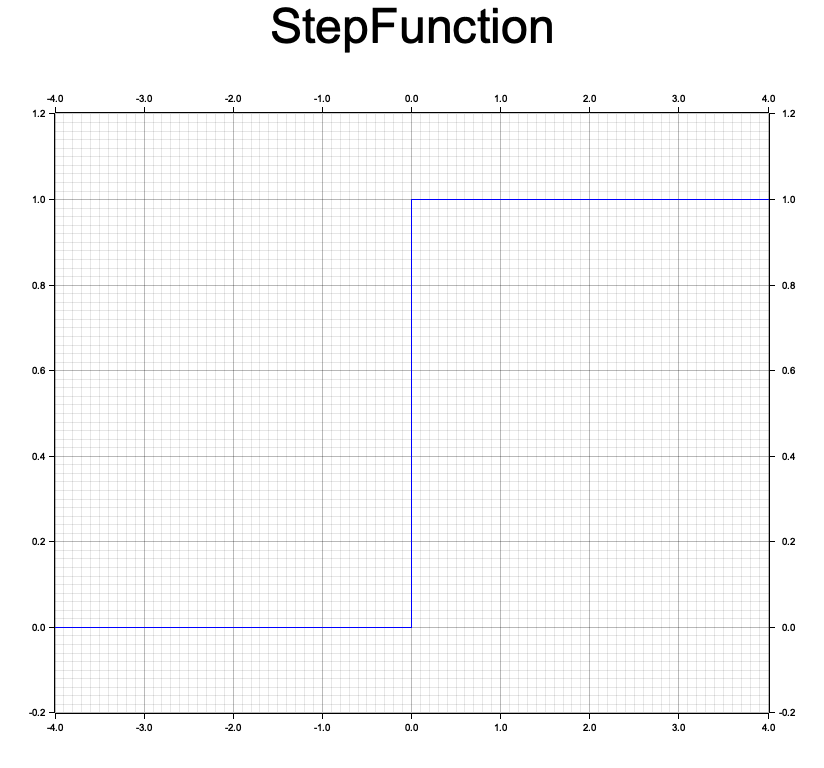
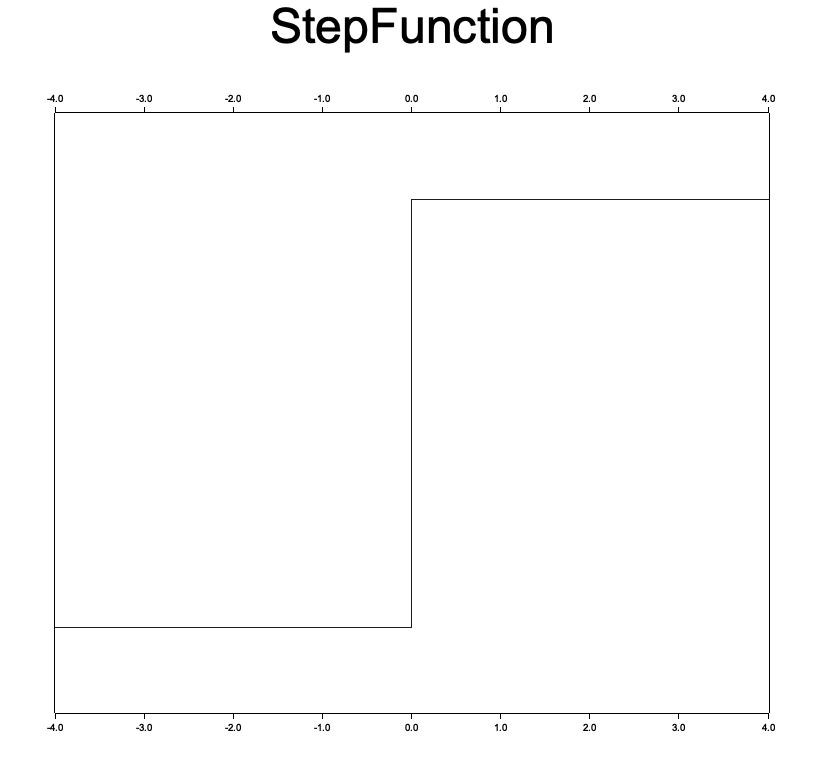
feat:signfunction

Changed region(s): [[0.0303, 0.1562, 0.9709, 0.9375], [0.9405, 0.9062, 0.9709, 0.9375], [0.0303, 0.9062, 0.0607, 0.9375]]

diff --git a/src/chart/sign_function.rs b/src/chart/sign_function.rs
@@ -1,0 +1,43 @@
+use plotters::prelude::*;
+
+const OUT_FILE_NAME: &str = "./src/chart/sign_function.png";
+
+pub fn main() {
+    // Create a drawing area
+    let root_area = BitMapBackend::new(OUT_FILE_NAME, (824, 768)).into_drawing_area();
+    root_area.fill(&WHITE).unwrap();
+    let root_area: DrawingArea<BitMapBackend<'_>, plotters::coord::Shift> = root_area.titled("Sign Function", ("sans-serif", 60)).unwrap();
+
+    // Create a chart for the step function
+    let mut sign_function = ChartBuilder::on(&root_area)
+        .margin(5)
+        .set_all_label_area_size(50)
+        .build_cartesian_2d(-4f32..4f32, (-1f32..1f32).step(0.5)) // Adjust Y-axis range for better visualization
+        .unwrap();
+
+    sign_function
+        .configure_mesh()
+        // .disable_mesh()
+        .x_label_formatter(&|v| format!("{:.1}", v))
+        .y_label_formatter(&|v| format!("{:.1}", v))
+        .draw()
+        .unwrap();
+
+
+    sign_function
+    .draw_series(LineSeries::new(
+        vec![(0f32, -1f32), (0f32, 1f32)],
+        &BLUE,
+    ))
+    .unwrap();
+   sign_function
+    .draw_series(LineSeries::new(
+        vec![(-4f32, -1f32), (0f32, -1f32)],
+        &BLUE,
+    ))
+    .unwrap();
+sign_function.draw_series(LineSeries::new(
+    (0f32..4.2f32).step(0.2).values().map(|x| (x, 1f32)),
+    &BLUE,
+)).unwrap();
+}

diff --git a/src/chart/relu_function.rs b/src/chart/relu_function.rs
@@ -1,0 +1,33 @@
+use plotters::prelude::*;
+
+const OUT_FILE_NAME: &str = "./src/chart/relu_function.png";
+
+pub fn main() {
+    // Create a drawing area
+    let root_area = BitMapBackend::new(OUT_FILE_NAME, (824, 768)).into_drawing_area();
+    root_area.fill(&WHITE).unwrap();
+    let root_area: DrawingArea<BitMapBackend<'_>, plotters::coord::Shift> = root_area.titled("ReLU Function", ("sans-serif", 60)).unwrap();
+
+    // Create a chart for the step function
+    let mut relu_function = ChartBuilder::on(&root_area)
+        .margin(5)
+        .set_all_label_area_size(50)
+        .build_cartesian_2d(-4f32..5f32, (0f32..5f32).step(1.0)) // Adjust Y-axis range for better visualization
+        .unwrap();
+
+    relu_function
+        .configure_mesh()
+        .disable_mesh()
+        .x_label_formatter(&|v| format!("{:.1}", v))
+        .y_label_formatter(&|v| format!("{:.1}", v))
+        .draw()
+        .unwrap();
+
+   
+relu_function.draw_series(LineSeries::new(
+    (-4f32..6f32).step(1.0).values().map(|x|  (x,f32::max(0f32, x))
+   ), 
+    &BLUE,
+))
+.unwrap();
+}

diff --git a/src/main.rs b/src/main.rs
@@ -10,10 +10,12 @@ fn main(){
 // chart::chart02::main();
 // chart::chart03::main();
 // chart::chart04::main();
-// chart::linear_function::main();
-// chart::step_function::main();
-// chart::sigmoid_function::main();
+chart::linear_function::main();
+chart::step_function::main();
+chart::sigmoid_function::main();
 chart::tanh_function::main();
+chart::relu_function::main();
+chart::sign_function::main()
 /*=========chart======== */
 /*=========fish======== */
 // fish::fish01::main();

diff --git a/src/chart/chart03.rs b/src/chart/chart03.rs
@@ -6,7 +6,7 @@ pub fn main(){
     root_area.fill(&WHITE).unwrap();//배경
     //title
     
-    let root_area = root_area.titled("Image Title", ("sans-serif", 60)).unwrap();
+    let root_area: DrawingArea<BitMapBackend<'_>, plotters::coord::Shift> = root_area.titled("Image Title", ("sans-serif", 60)).unwrap();
     //수직방향으로 나누기 처음영역이 512
     let (upper, lower) = root_area.split_vertically(200);
     //범위설정

diff --git a/src/chart/step_function.rs b/src/chart/step_function.rs
@@ -17,6 +17,7 @@ pub fn main() {
 
     step_function_chart
         .configure_mesh()
+        .disable_mesh()
         .x_label_formatter(&|v| format!("{:.1}", v))
         .y_label_formatter(&|v| format!("{:.1}", v))
         .draw()
@@ -32,6 +33,7 @@ pub fn main() {
         &BLUE,
     ))
     .unwrap();
+
 step_function_chart.draw_series(LineSeries::new(
     (0f32..4.2f32).step(0.2).values().map(|x| (x, 1f32)),
     &BLUE,

diff --git a/src/chart/mod.rs b/src/chart/mod.rs
@@ -9,4 +9,6 @@ pub mod linear_function;
 pub mod step_function;
 pub mod sigmoid_function;
 pub mod tanh_function;
+pub mod relu_function;
+pub mod sign_function;
 /*===========active_function============ */
